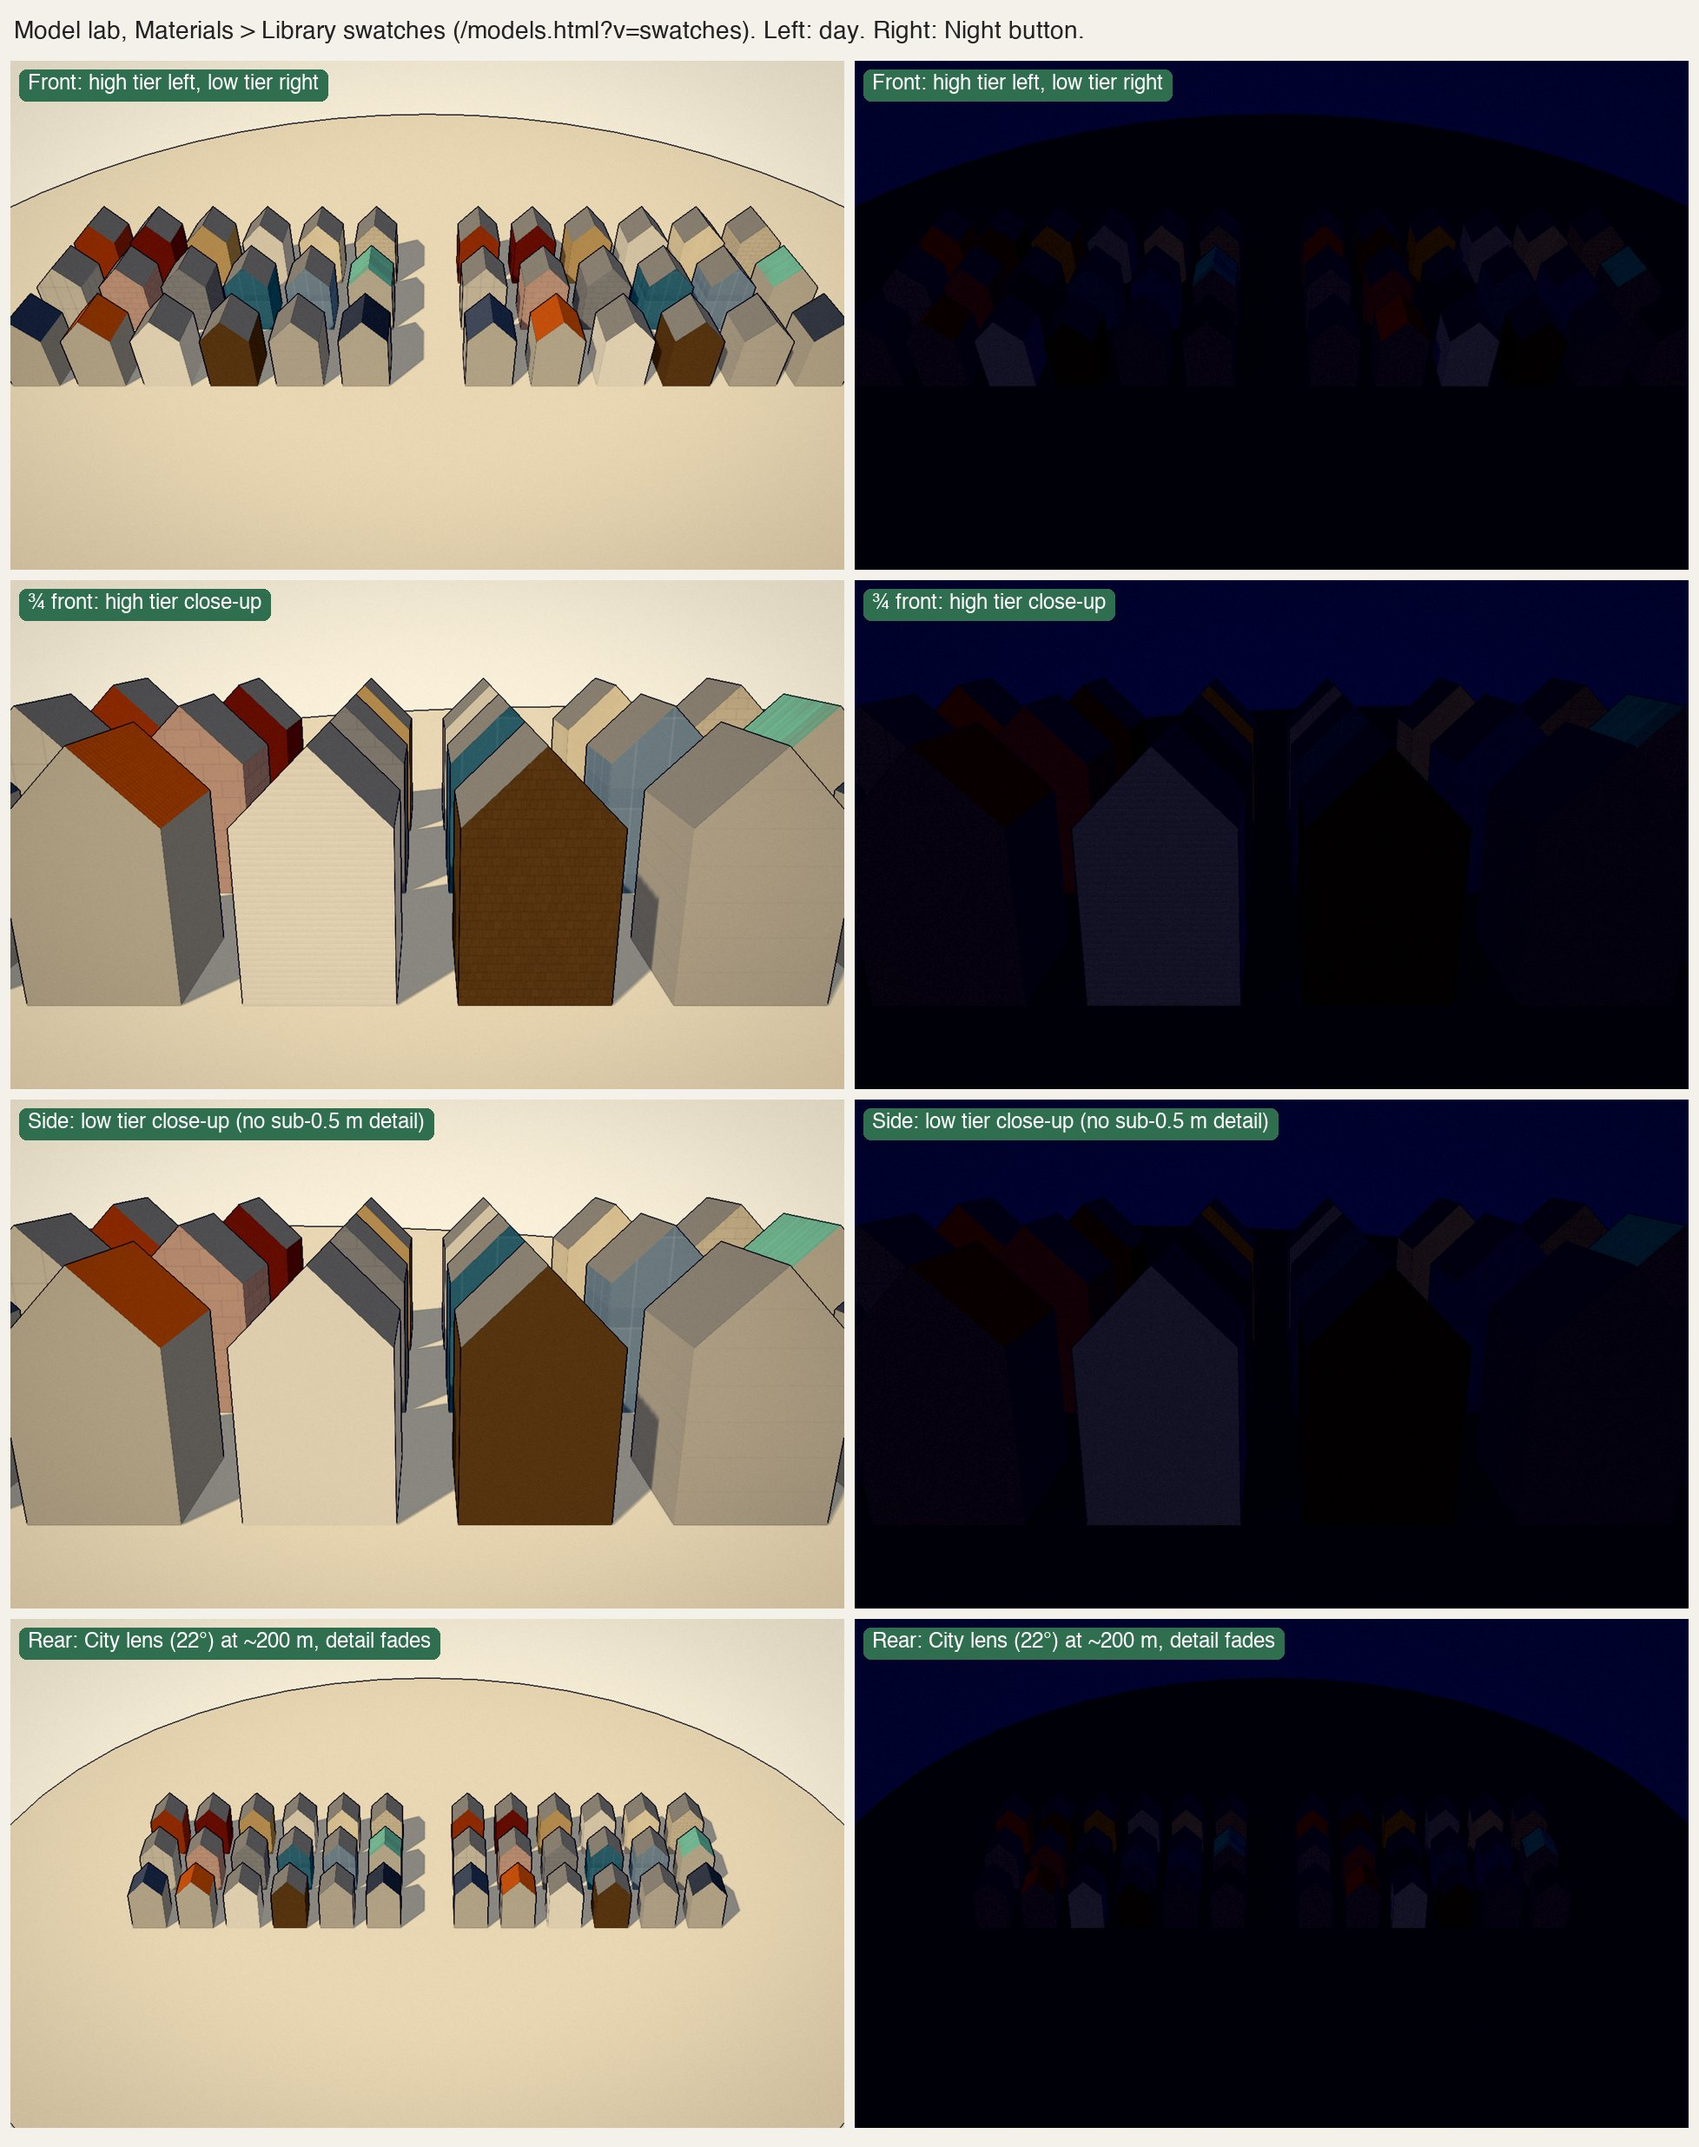
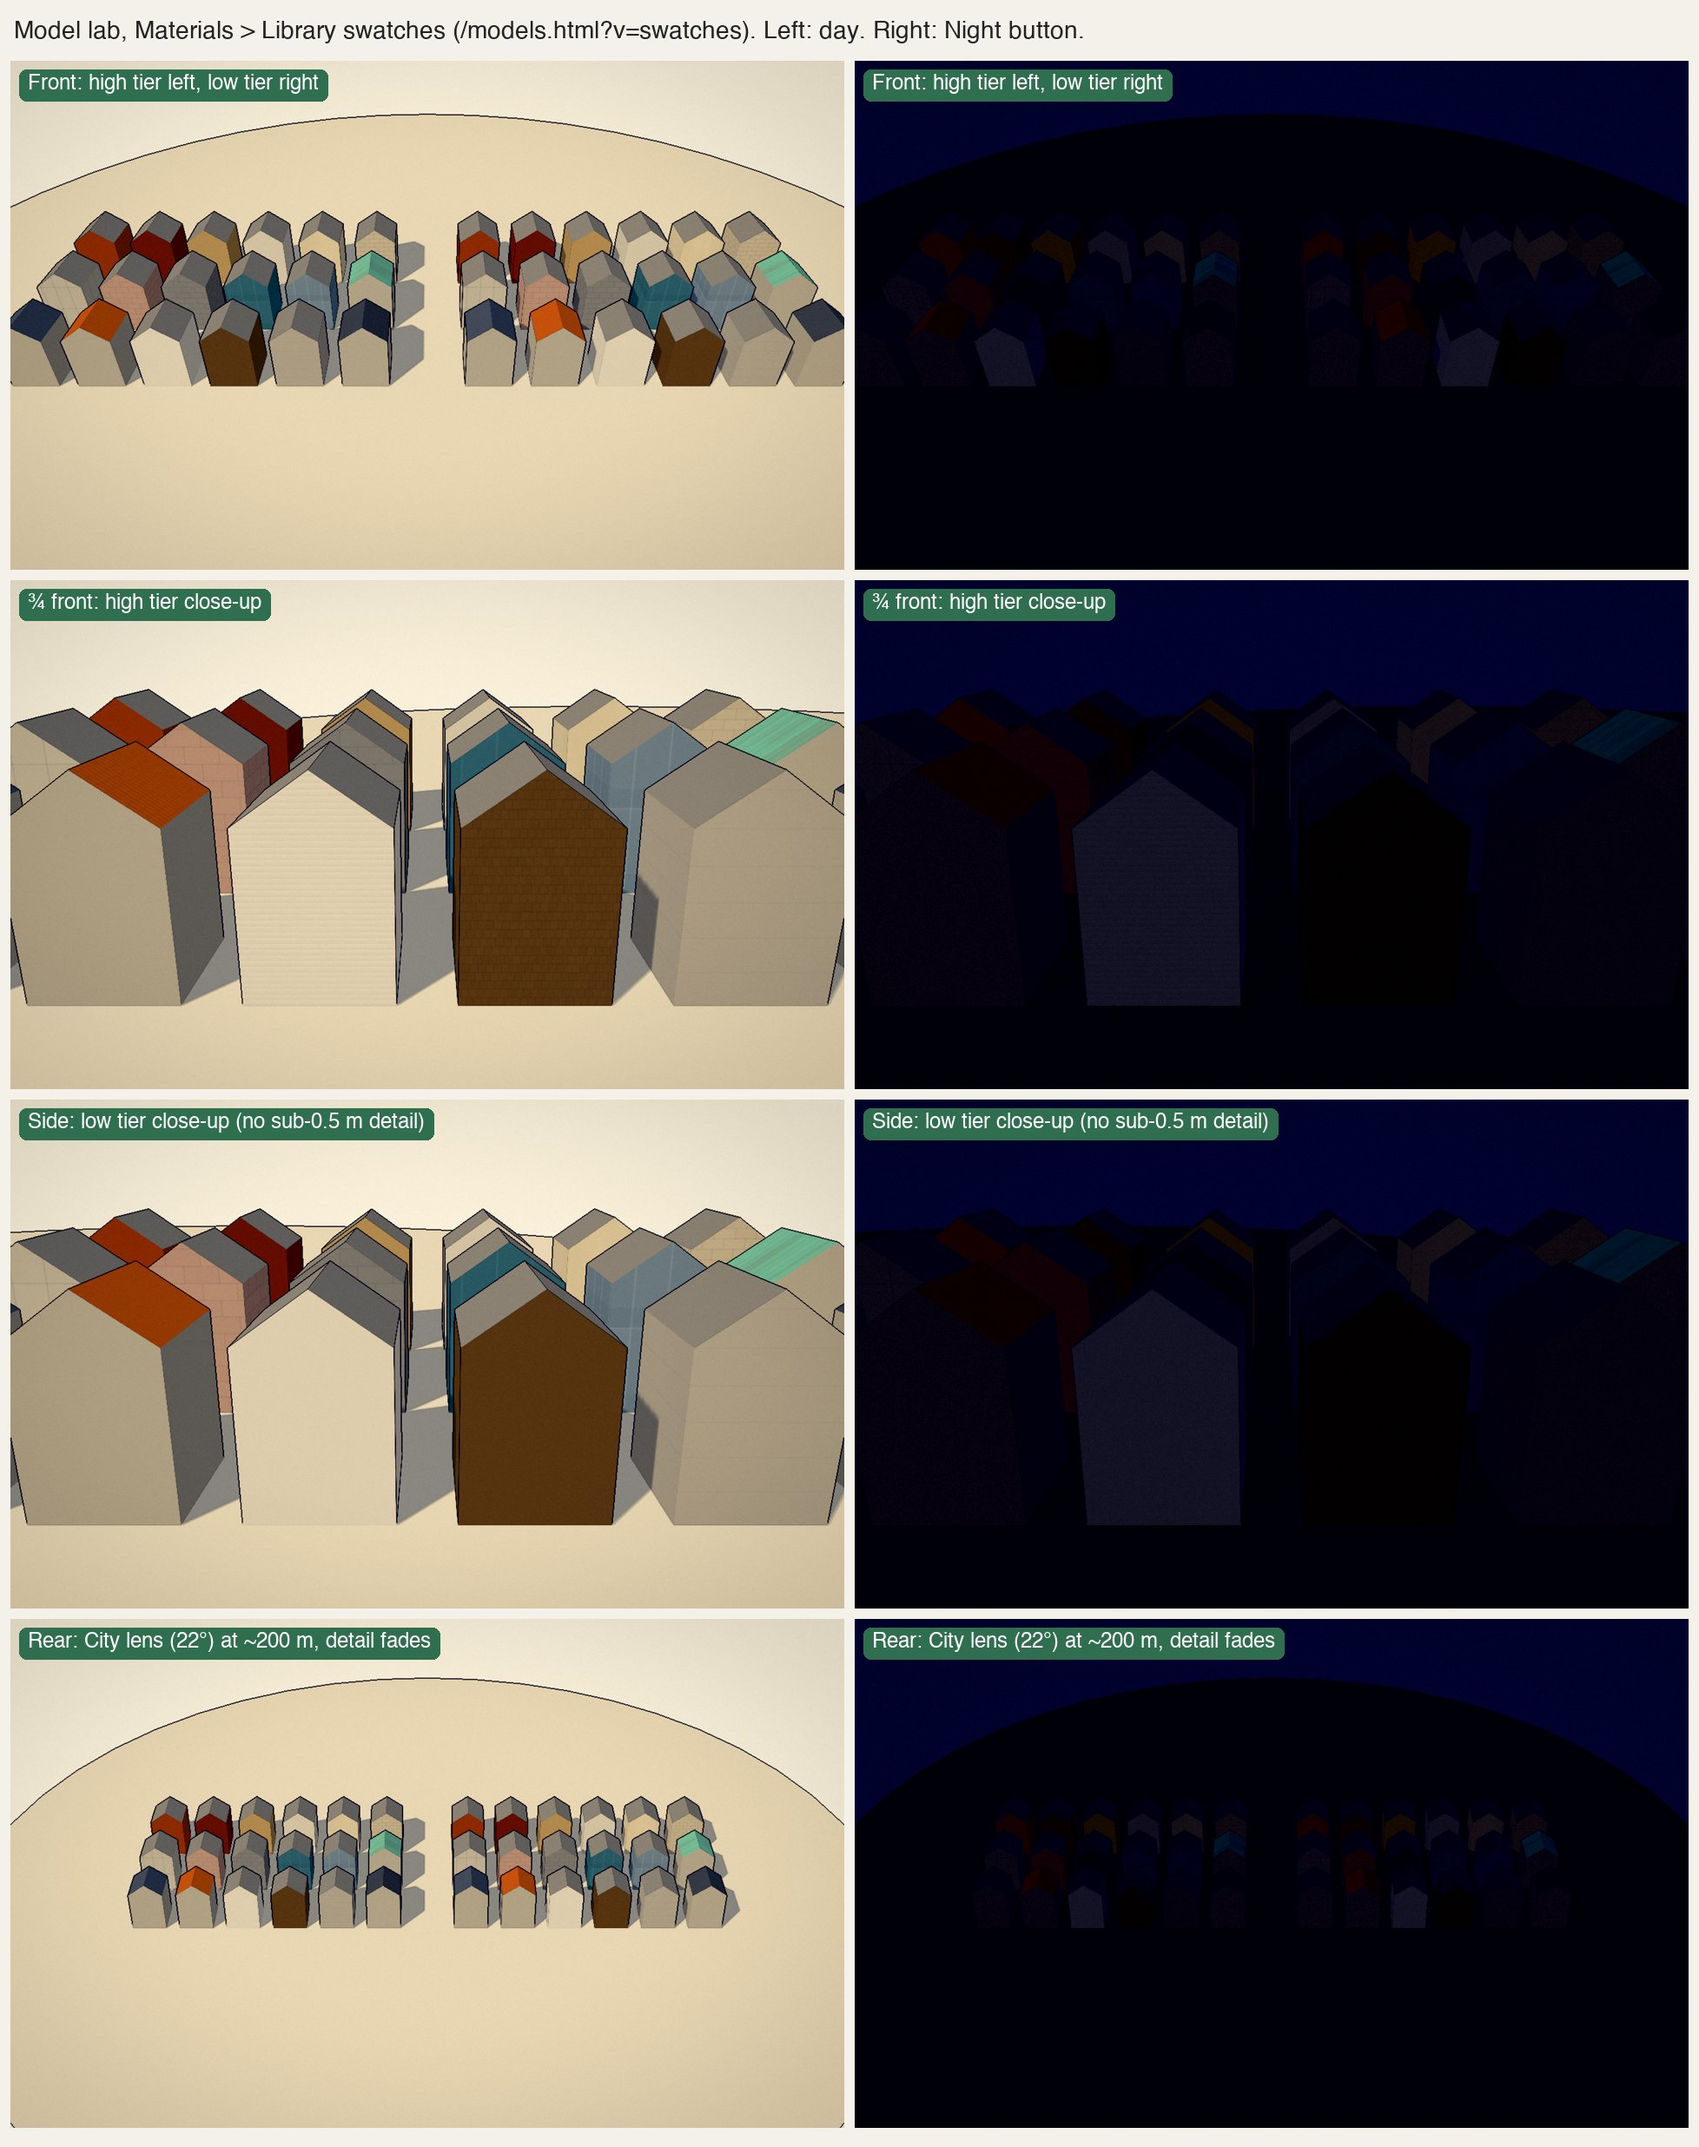
Lab swatches review: 36° roofs, City near plane on the distance view, honest draw counts, swatch test, build log

diff --git a/web/src/models/main.ts b/web/src/models/main.ts
@@ -369,7 +369,7 @@ let materialScene: ReturnType<typeof createMaterialScene> | null = null;
 function buildMaterials() {
   materialScene = createMaterialScene();
   scene.add(materialScene.group);
-  landscapeReport.textContent = `${materialScene.swatches} materials x 2 tiers, ${materialScene.draws} draw calls (one program per tier), `
+  landscapeReport.textContent = `${materialScene.swatches} materials x 2 tiers, ${materialScene.draws} draw calls plus ${materialScene.draws} shadow passes (one program per tier), `
     + `${Math.round(materialScene.triangles).toLocaleString()} triangles, 0 texture bytes.`;
   landscapeReport.hidden = false;
 }
@@ -404,6 +404,7 @@ function build() {
   eyeLevel.hidden = !isTree;
   for (const id of ['tree-size', 'season', 'tier']) document.getElementById(id)!.hidden = !isTree && !(isLandscape(model) && id !== 'tree-size');
   for (const b of document.getElementById('tier')!.querySelectorAll('button')) b.hidden = isMaterial(model);
+  document.querySelector('#tier legend')!.textContent = isMaterial(model) ? 'Swatches' : 'Detail';
   // The lineup is one tree per species; the cost test's counts don't apply.
   document.getElementById('count')!.hidden = !isTree || model === 'lineup';
   document.getElementById('rendering')!.hidden = !RENDERINGS[model] && model !== 'lineup';
@@ -567,7 +568,8 @@ function build() {
 const camera = new THREE.PerspectiveCamera(30, 1, 0.1, 400);
 const controls = new OrbitControls(camera, renderer.domElement);
 controls.enableDamping = true;
-type ViewPreset = { pos: [number, number, number]; target: [number, number, number]; fov: number };
+/** `near` defaults to the lab's 0.1 m; the swatches' City-distance view uses City's 20 m so the ink matches. */
+type ViewPreset = { pos: [number, number, number]; target: [number, number, number]; fov: number; near?: number };
 const TRAIN_VIEWS: Record<string, ViewPreset> = {
   'Front': { pos: [0, 2.3, 48], target: [0, 2.0, 22], fov: 18 },
   '¾ front': { pos: [-11, 4.2, 36], target: [0, 2.0, 18], fov: 28 },
@@ -585,6 +587,7 @@ function view(name: string) {
   camera.position.x += dx;
   controls.target.x += dx;
   camera.fov = v.fov;
+  camera.near = v.near ?? 0.1;
   camera.updateProjectionMatrix();
   controls.update();
   document.querySelectorAll('#views button').forEach((b) => b.setAttribute('aria-pressed', String(b.textContent === name)));
@@ -748,7 +751,7 @@ const MATERIAL_VIEWS: Record<string, ViewPreset> = {
   Front: { pos: [0, 48, 62], target: [0, 2, 0], fov: 42 },
   '¾ front': { pos: [-24, 12, 30], target: [-24, 4, 4], fov: 40 },
   Side: { pos: [24, 12, 30], target: [24, 4, 4], fov: 40 },
-  Rear: { pos: [0, 120, 165], target: [0, 3, 0], fov: 22 },
+  Rear: { pos: [0, 120, 165], target: [0, 3, 0], fov: 22, near: 20 },
   Top: { pos: [.01, 90, 0], target: [0, 0, 0], fov: 40 },
 };
 const LANDSCAPE_VIEWS: Record<string, ViewPreset> = {

diff --git a/web/src/models/materials-scene.test.ts b/web/src/models/materials-scene.test.ts
@@ -1,0 +1,22 @@
+import { describe, expect, it } from 'vitest';
+import { catalogue, SURFACE_KINDS } from '../materials';
+import { createMaterialScene, ROOFS, WALLS } from './materials-scene';
+
+describe('material swatches', () => {
+  it('place every library kind on a wall or a roof, never both', () => {
+    for (const kind of SURFACE_KINDS.slice(1)) expect(Number(ROOFS.has(kind)) + Number(WALLS.has(kind)), kind).toBe(1);
+  });
+
+  it('draw every catalogue material at both tiers, each vertex range painted', () => {
+    const scene = createMaterialScene();
+    expect(scene.swatches).toBe(catalogue().length);
+    const meshes = scene.group.children as unknown as { material: { userData: { surfaces?: string } }; geometry: { getAttribute(n: string): { count: number; getX(i: number): number } } }[];
+    expect(meshes.map(m => m.material.userData.surfaces)).toEqual(['high', 'low']);
+    for (const m of meshes) {
+      const a = m.geometry.getAttribute('aSurface'), kinds = new Set<number>();
+      for (let i = 0; i < a.count; i++) kinds.add(Math.round(a.getX(i)));
+      expect(kinds.size).toBe(SURFACE_KINDS.length); // every kind plus the flat (0) parts
+    }
+    scene.dispose();
+  });
+});

diff --git a/web/src/models/materials-scene.ts b/web/src/models/materials-scene.ts
@@ -7,8 +7,12 @@ export const MATERIAL_KINDS = {
 } as const;
 export type MaterialKind = keyof typeof MATERIAL_KINDS;
 
-const ROOFS = new Set(['slate', 'terracotta-tile', 'asphalt-roof', 'aged-copper']);
-const COLUMNS = 6, PITCH = 7, W = 5, H = 6, RISE = 2.5;
+/** Kinds drawn on the roof; every other kind paints the walls. materials-scene.test.ts checks each kind is placed. */
+export const ROOFS = new Set<string>(['slate', 'terracotta-tile', 'asphalt-roof', 'aged-copper']);
+/** Wall materials, listed so a new kind must be placed deliberately. */
+export const WALLS = new Set<string>(['brick', 'stucco', 'ashlar', 'precast', 'granite', 'curtain-glass', 'clapboard', 'shingle', 'concrete']);
+// A 36° roof, well clear of the shader's 45° wall/roof cutoff (normal.y 0.7).
+const COLUMNS = 6, PITCH = 7, W = 5, H = 6, RISE = 1.8;
 
 /** The catalogue in swatch order, row by row from the back, left to right. */
 export function swatchList() {

diff --git a/docs/build-log.md b/docs/build-log.md
@@ -2546,3 +2546,7 @@ The surprise came from the proof sheets. The City camera never orbits closer tha
 ### 2026-11-23 — A2c, step 9: City arrives as a white model
 
 Under `?ui=next`, opening City no longer shows the "Atlanta, in miniature" plate. The frame appears over paper with "Building the city…" and a grey dot that never says Live. The scene then arrives as a white study model of the exact camera: the real geometry, sun shadows and ink, all in paper white with no colour. Colour fades in over it. Only then do Live, the credit timer and the vehicles start. Three surprises, each measured. First, the brief's one-liner, `RenderPass.overrideMaterial`, didn't hold up. It reaches only the first pass, and against the other passes the frame sometimes came out cropped, so the white material is swapped onto each mesh for those few frames instead. Second, the board's clipping planes culled every mesh under the white material, leaving only ink lines on paper. Third, `compileAsync` sometimes never resolved, so colour now waits at most 2.5 s for it. Moving the render start before the build stages was measured and deferred: the whole build is 0.59 s on this desktop, and buildings come out of the 0.27 s terrain stage, so it waits for Galaxy A16 numbers. Needs only a web rebuild. [White model vs reference](log/ui/a2c/step9-white-model.jpg) · [Loading frame](log/ui/a2c/step9-frame.jpg)
+
+### 2026-11-23 — Material swatches in the model lab
+
+The material library now has its own page in the model lab: Materials > Library swatches. All 18 catalogue materials appear as small gabled blocks, drawn through the same shader City uses, with the high tier on the left and the low tier on the right. That's 2 draws and 0 texture bytes. Close-ups are where the difference shows: brick courses, clapboard laps and slate exist only on the high tier, and the low tier keeps the half-metre structure (ashlar, panels, mullions, copper streaks). A third view copies the City's 22° lens from about 200 m, and there every block fades towards its flat colour, which is the point of the library. One detail mattered: the first swatch roofs were pitched at exactly 45°, right on the shader's wall/roof cutoff, so they now sit at 36°. Requires a web rebuild only. [Swatches, day and night](log/ui/materials/materials-lab-swatches.jpg)
